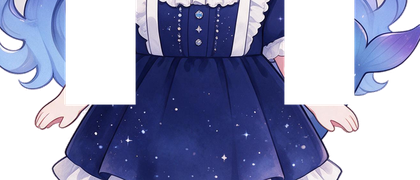
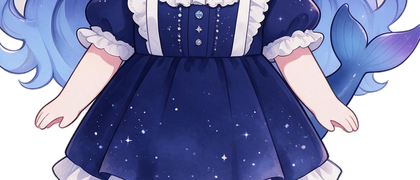
fix(骨骼): 修部件错位/散架——贴图改为「左上角-骨骼点」偏移，重做头像分层（长发整块、下巴以下只留两侧发）
根因1：DOM 骨骼把 pivot 当骨骼点放贴图，但 torso/skirt/arm 的 pivot 是视觉支点、和骨骼点不重合（torso 偏 300px、skirt 偏 124px、arm 偏 40/68px），导致身体部件错位、看起来散架；改为 box 左上角 - 骨骼点，旋转围绕骨骼点。根因2：head 层只切到 0.405 且中间留有硬边，旋转/呼吸时出现下巴横线、头像是「掉」的；重做 head 层：包含整条长发到 0.70、下巴以下只保留左右两侧发并把中心挖空，另加 hairBack 垫层补齐肩部，底部 24px alpha 渐变。同步更新 pet 帧渲染（绕骨骼点旋转）与 rig.json/贴图，重建客户端。冒烟 45/45、39/39。

Changed region(s): [[0.65, 0.0, 0.8667, 0.5833], [0.1548, 0.0, 0.3405, 0.5833]]

diff --git a/lib/client.js b/lib/client.js
@@ -2117,7 +2117,7 @@ const SKELETON_RIG_BUILTIN = {
       "parent": "chest",
       "pos": [
         681,
-        931
+        909
       ]
     },
     "tail": {
@@ -2135,32 +2135,32 @@ const SKELETON_RIG_BUILTIN = {
         6,
         0,
         1314,
-        908
+        1570
       ],
       "pivot": [
-        654,
-        908
+        210,
+        291
       ],
       "size": [
         420,
-        291
+        504
       ]
     },
     "hairBack": {
       "file": "assets/hairBack.png",
       "box": [
         27,
-        908,
+        886,
         1334,
         1615
       ],
       "pivot": [
-        654,
-        23
+        210,
+        7
       ],
       "size": [
         420,
-        227
+        234
       ]
     },
     "torso": {
@@ -2172,8 +2172,8 @@ const SKELETON_RIG_BUILTIN = {
         1290
       ],
       "pivot": [
-        314,
-        404
+        210,
+        270
       ],
       "size": [
         420,
@@ -2183,35 +2183,35 @@ const SKELETON_RIG_BUILTIN = {
     "armL": {
       "file": "assets/armL.png",
       "box": [
-        204,
-        1110,
-        401,
-        1492
+        231,
+        1054,
+        435,
+        1447
       ],
       "pivot": [
-        88,
-        23
+        61,
+        79
       ],
       "size": [
-        197,
-        382
+        204,
+        393
       ]
     },
     "armR": {
       "file": "assets/armR.png",
       "box": [
-        960,
-        1110,
-        1157,
-        1492
+        926,
+        1054,
+        1130,
+        1447
       ],
       "pivot": [
-        109,
-        23
+        143,
+        79
       ],
       "size": [
-        197,
-        382
+        204,
+        393
       ]
     },
     "skirt": {
@@ -2223,8 +2223,8 @@ const SKELETON_RIG_BUILTIN = {
         1716
       ],
       "pivot": [
-        654,
-        11
+        210,
+        3
       ],
       "size": [
         420,
@@ -2285,14 +2285,14 @@ const SKELETON_RIG_BUILTIN = {
   },
   "z": {
     "head": 6,
-    "hairBack": 0.5,
+    "hairBack": 1,
     "torso": 4,
     "armL": 5,
     "armR": 5,
     "skirt": 3,
     "legL": 2,
     "legR": 2,
-    "tail": 0.4
+    "tail": 0
   }
 }
 
@@ -2528,7 +2528,12 @@ function SkeletonAvatar(props) {
     partList.map((name) => {
       const info = rig.parts[name]
       const box = info.box || [0, 0, 10, 10]
-      const pivot = info.pivot || [0, 0]
+      // 贴图相对骨骼的偏移 = 贴图左上角 - 骨骼点（旋转围绕骨骼点，绝不能拿 pivot 当骨骼点：
+      // 之前 torso/skirt/arm 的 pivot 是视觉支点、和骨骼点不重合，导致身体部件错位「散架」）
+      const boneName = SKELETON_PART_BONE[name]
+      const bonePos = (rig.bones[boneName] && rig.bones[boneName].pos) || [0, 0]
+      const offX = (box[0] - bonePos[0]) * k
+      const offY = (box[1] - bonePos[1]) * k
       return h('span', {
         key: name,
         ref: (el) => { if (el) nodesRef.current[name] = el },
@@ -2544,8 +2549,8 @@ function SkeletonAvatar(props) {
           draggable: false,
           style: {
             position: 'absolute',
-            left: (-pivot[0] * k).toFixed(2) + 'px',
-            top: (-pivot[1] * k).toFixed(2) + 'px',
+            left: offX.toFixed(2) + 'px',
+            top: offY.toFixed(2) + 'px',
             width: ((box[2] - box[0]) * k).toFixed(2) + 'px',
             height: ((box[3] - box[1]) * k).toFixed(2) + 'px',
             display: 'block', pointerEvents: 'none', userSelect: 'none',

diff --git a/src/client/20-stage/skeleton.js b/src/client/20-stage/skeleton.js
@@ -73,7 +73,7 @@ const SKELETON_RIG_BUILTIN = {
       "parent": "chest",
       "pos": [
         681,
-        931
+        909
       ]
     },
     "tail": {
@@ -91,32 +91,32 @@ const SKELETON_RIG_BUILTIN = {
         6,
         0,
         1314,
-        908
+        1570
       ],
       "pivot": [
-        654,
-        908
+        210,
+        291
       ],
       "size": [
         420,
-        291
+        504
       ]
     },
     "hairBack": {
       "file": "assets/hairBack.png",
       "box": [
         27,
-        908,
+        886,
         1334,
         1615
       ],
       "pivot": [
-        654,
-        23
+        210,
+        7
       ],
       "size": [
         420,
-        227
+        234
       ]
     },
     "torso": {
@@ -128,8 +128,8 @@ const SKELETON_RIG_BUILTIN = {
         1290
       ],
       "pivot": [
-        314,
-        404
+        210,
+        270
       ],
       "size": [
         420,
@@ -139,35 +139,35 @@ const SKELETON_RIG_BUILTIN = {
     "armL": {
       "file": "assets/armL.png",
       "box": [
-        204,
-        1110,
-        401,
-        1492
+        231,
+        1054,
+        435,
+        1447
       ],
       "pivot": [
-        88,
-        23
+        61,
+        79
       ],
       "size": [
-        197,
-        382
+        204,
+        393
       ]
     },
     "armR": {
       "file": "assets/armR.png",
       "box": [
-        960,
-        1110,
-        1157,
-        1492
+        926,
+        1054,
+        1130,
+        1447
       ],
       "pivot": [
-        109,
-        23
+        143,
+        79
       ],
       "size": [
-        197,
-        382
+        204,
+        393
       ]
     },
     "skirt": {
@@ -179,8 +179,8 @@ const SKELETON_RIG_BUILTIN = {
         1716
       ],
       "pivot": [
-        654,
-        11
+        210,
+        3
       ],
       "size": [
         420,
@@ -241,14 +241,14 @@ const SKELETON_RIG_BUILTIN = {
   },
   "z": {
     "head": 6,
-    "hairBack": 0.5,
+    "hairBack": 1,
     "torso": 4,
     "armL": 5,
     "armR": 5,
     "skirt": 3,
     "legL": 2,
     "legR": 2,
-    "tail": 0.4
+    "tail": 0
   }
 }
 
@@ -484,7 +484,12 @@ function SkeletonAvatar(props) {
     partList.map((name) => {
       const info = rig.parts[name]
       const box = info.box || [0, 0, 10, 10]
-      const pivot = info.pivot || [0, 0]
+      // 贴图相对骨骼的偏移 = 贴图左上角 - 骨骼点（旋转围绕骨骼点，绝不能拿 pivot 当骨骼点：
+      // 之前 torso/skirt/arm 的 pivot 是视觉支点、和骨骼点不重合，导致身体部件错位「散架」）
+      const boneName = SKELETON_PART_BONE[name]
+      const bonePos = (rig.bones[boneName] && rig.bones[boneName].pos) || [0, 0]
+      const offX = (box[0] - bonePos[0]) * k
+      const offY = (box[1] - bonePos[1]) * k
       return h('span', {
         key: name,
         ref: (el) => { if (el) nodesRef.current[name] = el },
@@ -500,8 +505,8 @@ function SkeletonAvatar(props) {
           draggable: false,
           style: {
             position: 'absolute',
-            left: (-pivot[0] * k).toFixed(2) + 'px',
-            top: (-pivot[1] * k).toFixed(2) + 'px',
+            left: offX.toFixed(2) + 'px',
+            top: offY.toFixed(2) + 'px',
             width: ((box[2] - box[0]) * k).toFixed(2) + 'px',
             height: ((box[3] - box[1]) * k).toFixed(2) + 'px',
             display: 'block', pointerEvents: 'none', userSelect: 'none',

diff --git a/examples/2d-skeleton-demo/index.html b/examples/2d-skeleton-demo/index.html
@@ -108,7 +108,8 @@
   const nodes = {}
   for (const name of parts) {
     const info = rig.parts[name]
-    const box = info.box, pv = info.pivot
+    const box = info.box
+    const bonePos = (rig.bones[PART_BONE[name]] && rig.bones[PART_BONE[name]].pos) || [0, 0]
     const anchor = document.createElement('div')
     anchor.className = 'part-anchor'
     anchor.style.zIndex = Math.round(Number(rig.z[name]) || 0)
@@ -116,8 +117,9 @@
     img.src = info.file + '?v=' + Date.now()
     img.alt = ''
     img.draggable = false
-    img.style.left = -pv[0] * k + 'px'
-    img.style.top = -pv[1] * k + 'px'
+    // 贴图相对骨骼的偏移 = 贴图左上角 - 骨骼点（围绕骨骼点旋转）
+    img.style.left = (box[0] - bonePos[0]) * k + 'px'
+    img.style.top = (box[1] - bonePos[1]) * k + 'px'
     img.style.width = (box[2] - box[0]) * k + 'px'
     img.style.height = (box[3] - box[1]) * k + 'px'
     img.dataset.part = name
